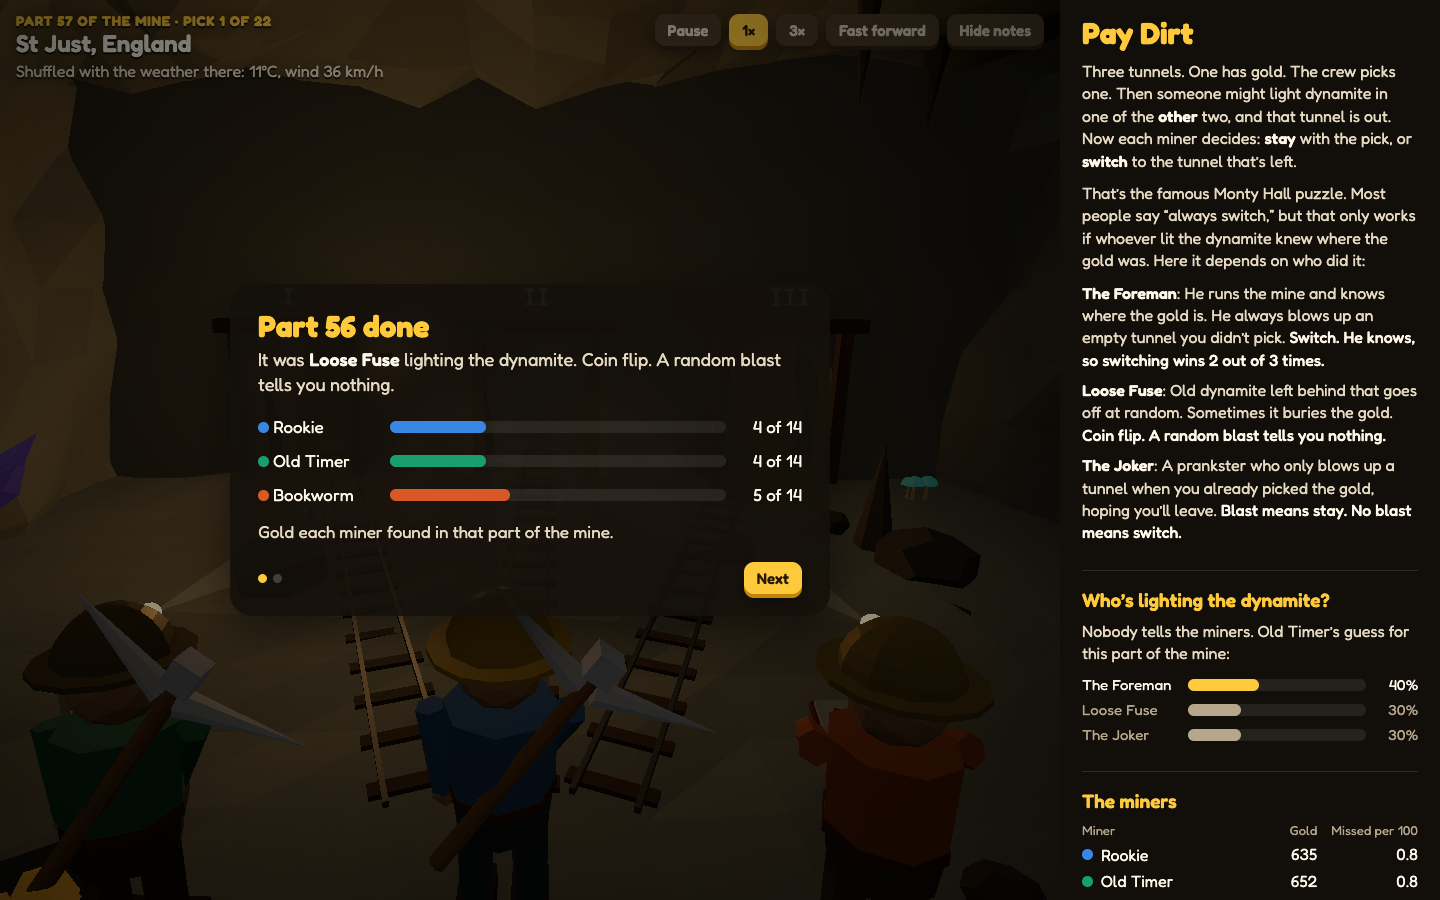
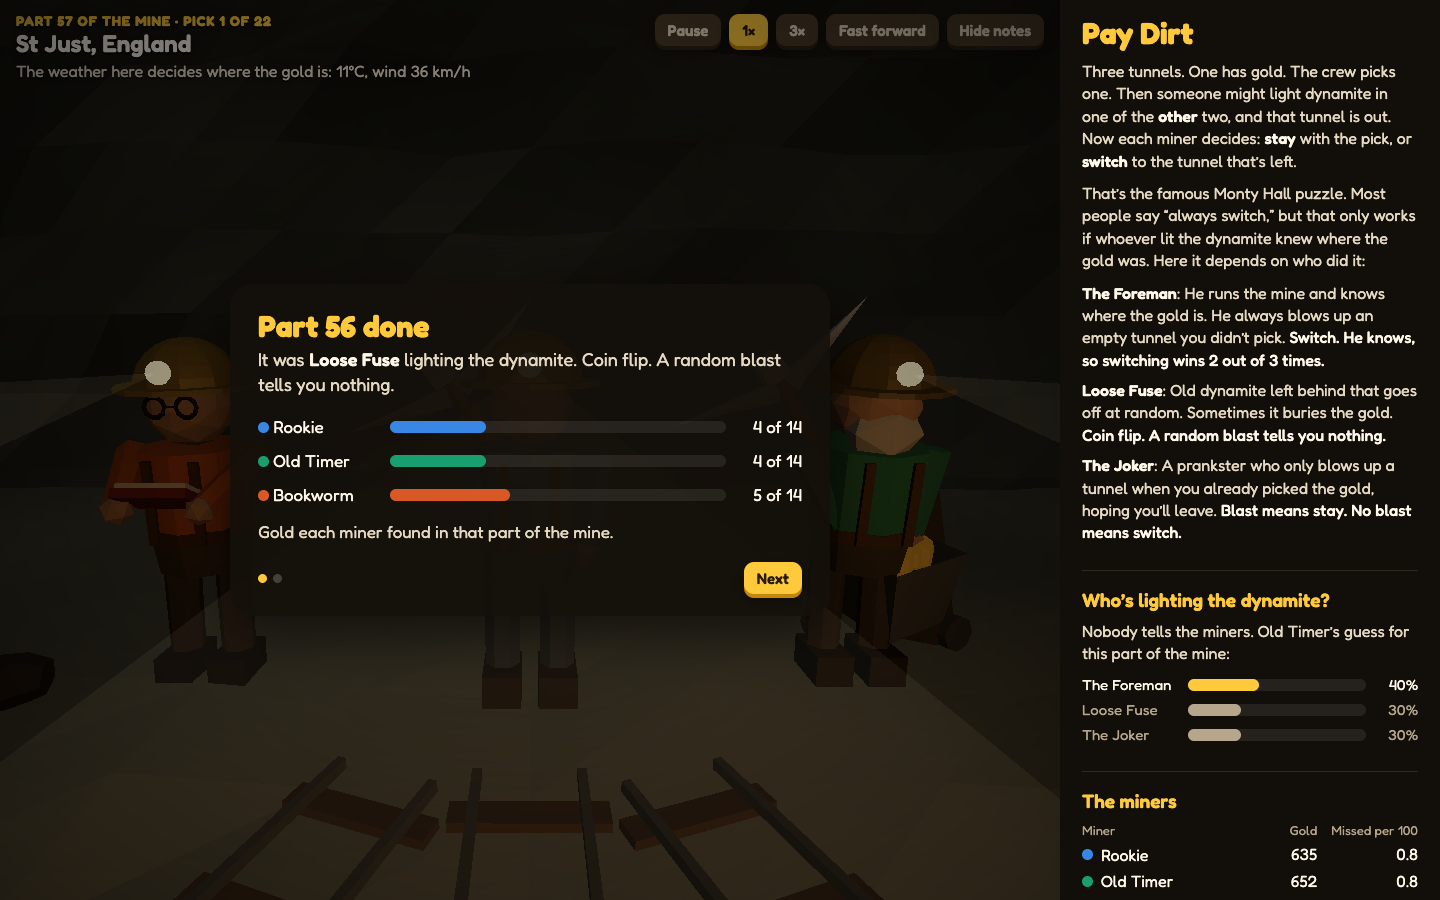
smooth 25fps clip, and say plainly that the weather decides where the gold is
- recap card headline: the weather decides where the gold is; step 3: that number hides the gold
- the dynamite is described as a clue, not a source of randomness
- close up camera now faces the crew
- animated webp recorded from a 60fps screencast replaces the choppy gif

diff --git a/web/main.js b/web/main.js
@@ -138,11 +138,11 @@ function apiLine() {
 
 function shuffleCard(R) {
   const t = TOWNS[R.town], w = dice.weather[R.town];
-  return `<h2>Shuffling part ${R.index + 1}</h2><p class="sub">Each part of the mine is shuffled with real weather, so nobody can predict it. Not even us.</p>
+  return `<h2>The weather decides where the gold is</h2><p class="sub">Part ${R.index + 1} of the mine. The gold is hidden using the real weather right now, so nobody can predict where it is. Not even us.</p>
     <ol class="steps">
       <li><span class="n">1</span><div><h3>Check the weather in ${t.city}, ${t.country}</h3><p>${w.temperature_2m}°C, wind ${w.wind_speed_10m} km/h, humidity ${w.relative_humidity_2m}%, rain ${w.precipitation} mm</p><p class="api">${apiLine()}</p></div></li>
       <li><span class="n">2</span><div><h3>Scramble it into a number</h3><p class="big">${R.seed.toString(16).padStart(8, '0')}</p><p>Like shaking a jar of weather. Change one tiny thing and you get a completely different number.</p></div></li>
-      <li><span class="n">3</span><div><h3>That number decides everything</h3><p>Who is lighting the dynamite here (kept secret from the miners), how long this part lasts (<b>${R.length} picks</b>), and where the gold is each time.</p></div></li>
+      <li><span class="n">3</span><div><h3>That number hides the gold</h3><p>Before every pick it puts the gold behind <b>tunnel I, II or III</b>, each one equally likely. For the next <b>${R.length} picks</b> it also picks the crew’s first tunnel, and secretly picks who’s behind the dynamite.</p><p class="api">The dynamite isn’t random. It’s a clue about where the weather put the gold.</p></div></li>
     </ol>`;
 }
 
@@ -174,7 +174,7 @@ function renderTop(R) {
   const t = TOWNS[R.town], w = dice.weather[R.town];
   $('part').textContent = `Part ${R.index + 1} of the mine · pick ${R.forksDone} of ${R.length}`;
   $('town').textContent = `${t.city}, ${t.country}`;
-  $('wx').textContent = `Shuffled with the weather there: ${Math.round(w.temperature_2m)}°C, wind ${Math.round(w.wind_speed_10m)} km/h`;
+  $('wx').textContent = `The weather here decides where the gold is: ${Math.round(w.temperature_2m)}°C, wind ${Math.round(w.wind_speed_10m)} km/h`;
   renderBelief();
 }
 
@@ -206,8 +206,9 @@ function renderNotes() {
   const R = ex.world.region;
   if (R) {
     const t = TOWNS[R.town], w = dice.weather[R.town];
-    $('wxNote').innerHTML = `<p>Every part of the mine is shuffled with the real weather in a mining town right now. This part: <b>${t.city}, ${t.country}</b>, ${w.temperature_2m}°C with wind at ${w.wind_speed_10m} km/h.</p>
-      <p>That reading gets scrambled into the number <span class="seed">${R.seed.toString(16).padStart(8, '0')}</span>, which secretly decides who’s lighting the dynamite, how long this part lasts, and where the gold goes.</p>
+    $('wxNote').innerHTML = `<p><b>The real weather decides where the gold is.</b> For this part of the mine it’s the weather in <b>${t.city}, ${t.country}</b> right now: ${w.temperature_2m}°C with wind at ${w.wind_speed_10m} km/h.</p>
+      <p>That reading gets scrambled into the number <span class="seed">${R.seed.toString(16).padStart(8, '0')}</span>, which hides the gold behind tunnel I, II or III before every pick. It also picks the crew’s first tunnel and, secretly, who’s behind the dynamite.</p>
+      <p>The dynamite itself isn’t random. It’s a clue about where the weather put the gold, and how good a clue depends on who lit it.</p>
       <p class="api">${apiLine()}</p>`;
   }
   $('logCount').textContent = log.db

diff --git a/web/index.html b/web/index.html
@@ -190,7 +190,7 @@ body { margin: 0; background: var(--night); color: var(--ink); font: 400 17px/1.
     <p style="margin-top:12px">Every ten picks the Rookie gets three test questions it never practices on:</p>
     <table class="quiz"><thead><tr><th>If…</th><th>Right move</th><th>Rookie says</th><th></th></tr></thead><tbody id="quizzes"></tbody></table>
 
-    <h2>Where the randomness comes from</h2>
+    <h2>How the gold gets hidden</h2>
     <div class="wxline" id="wxNote"></div>
 
     <h2>Every pick, saved</h2>

diff --git a/web/cave.js b/web/cave.js
@@ -445,7 +445,7 @@ export class Cave {
   // camera moves in on the miner for the between-parts recap
   closeUp(on) {
     this.close = on;
-    if (on) { this.goalPos.set(1.8, 4.6, this.home.z - 3.6); this.goalLook.set(0, 3.6, this.home.z); }
+    if (on) { this.goalPos.set(0, 4.6, this.home.z - 8.5); this.goalLook.set(0, 3.3, this.home.z); } // in front of the crew, looking at their faces
     else { this.goalPos.set(0, 10, 19); this.goalLook.set(0, 2.4, -10); }
   }
 

diff --git a/README.md b/README.md
@@ -4,7 +4,7 @@ A tiny AI learns a famous puzzle by mining for gold, live in your browser.
 
 **[▶ Play it](https://porkedchop.github.io/pay-dirt/)** · free, nothing to install
 
-[![Three miners, three tunnels, one has gold. Dynamite blows one tunnel shut.](docs/pay-dirt.gif)](https://porkedchop.github.io/pay-dirt/)
+[![Three miners, three tunnels, one has gold. Dynamite blows one tunnel shut.](docs/pay-dirt.webp)](https://porkedchop.github.io/pay-dirt/)
 
 ## The idea in one minute
 
@@ -40,7 +40,7 @@ They stand side by side at the same spot, see the same first pick and the same b
 
 ![Part done: Loose Fuse, and how many times each miner found gold](docs/walkthrough/1-done.png)
 
-**2. The next part gets shuffled.** This is where the randomness comes from: the real weather in a mining town right now, scrambled into a number. That number secretly decides who's lighting the dynamite, how long this part lasts, and where the gold is.
+**2. The weather decides where the gold is.** Each part of the mine starts by checking the real weather in a mining town right now and scrambling it into a number. That number hides the gold behind one of the three tunnels before every pick, and secretly picks who's behind the dynamite.
 
 ![Shuffling the next part with the weather in St Just, England](docs/walkthrough/2-shuffle.png)
 
@@ -90,11 +90,13 @@ What it shows so far (5,000 picks, measured over the last 1,000):
 
 The Rookie gets close to Old Timer within a couple thousand picks. The Bookworm never improves, because the Joker fools it every single time.
 
-## Where the randomness comes from
+## The weather decides where the gold is
 
 Cloudflare famously keeps a wall of lava lamps and turns photos of them into random numbers. Pay Dirt does the same thing with the weather.
 
-One free request to [Open-Meteo](https://open-meteo.com) (no account, no key) gets the current weather in eight real mining towns: St Just (England), Kiruna (Sweden), Potosí (Bolivia), Kalgoorlie (Australia), Butte (USA), Wieliczka (Poland), Calama (Chile) and Falun (Sweden). Each part of the mine takes the next town's reading and scrambles it with SHA-256 into a random number. That number decides who's lighting the dynamite, how long that part of the mine lasts, and where the gold goes. The weather is checked again every 15 minutes.
+One free request to [Open-Meteo](https://open-meteo.com) (no account, no key) gets the current weather in eight real mining towns: St Just (England), Kiruna (Sweden), Potosí (Bolivia), Kalgoorlie (Australia), Butte (USA), Wieliczka (Poland), Calama (Chile) and Falun (Sweden). Each part of the mine takes the next town's reading and scrambles it with SHA-256 into a random number. That number rolls the dice for **where the gold is** on every pick (each tunnel gets an even 1 in 3 chance), which tunnel the crew picks first, and, once per part, who's behind the dynamite and how long the part lasts.
+
+The dynamite itself is **not** random, and that's the point. It's a clue: where it goes depends on where the gold is and on who lit it. The Foreman never blows up the gold, so his blast pushes the odds to 2 in 3 for switching. The Joker only blasts when you already picked the gold, so his blast means your tunnel is a sure thing. Loose Fuse is the only truly random blast, so it tells you nothing. The Rookie has to learn which kind of clue it's looking at. The weather is checked again every 15 minutes.
 
 The weather also changes how the cave looks: more drips when it's raining, more fog when it's humid, dust blowing when it's windy.
 
